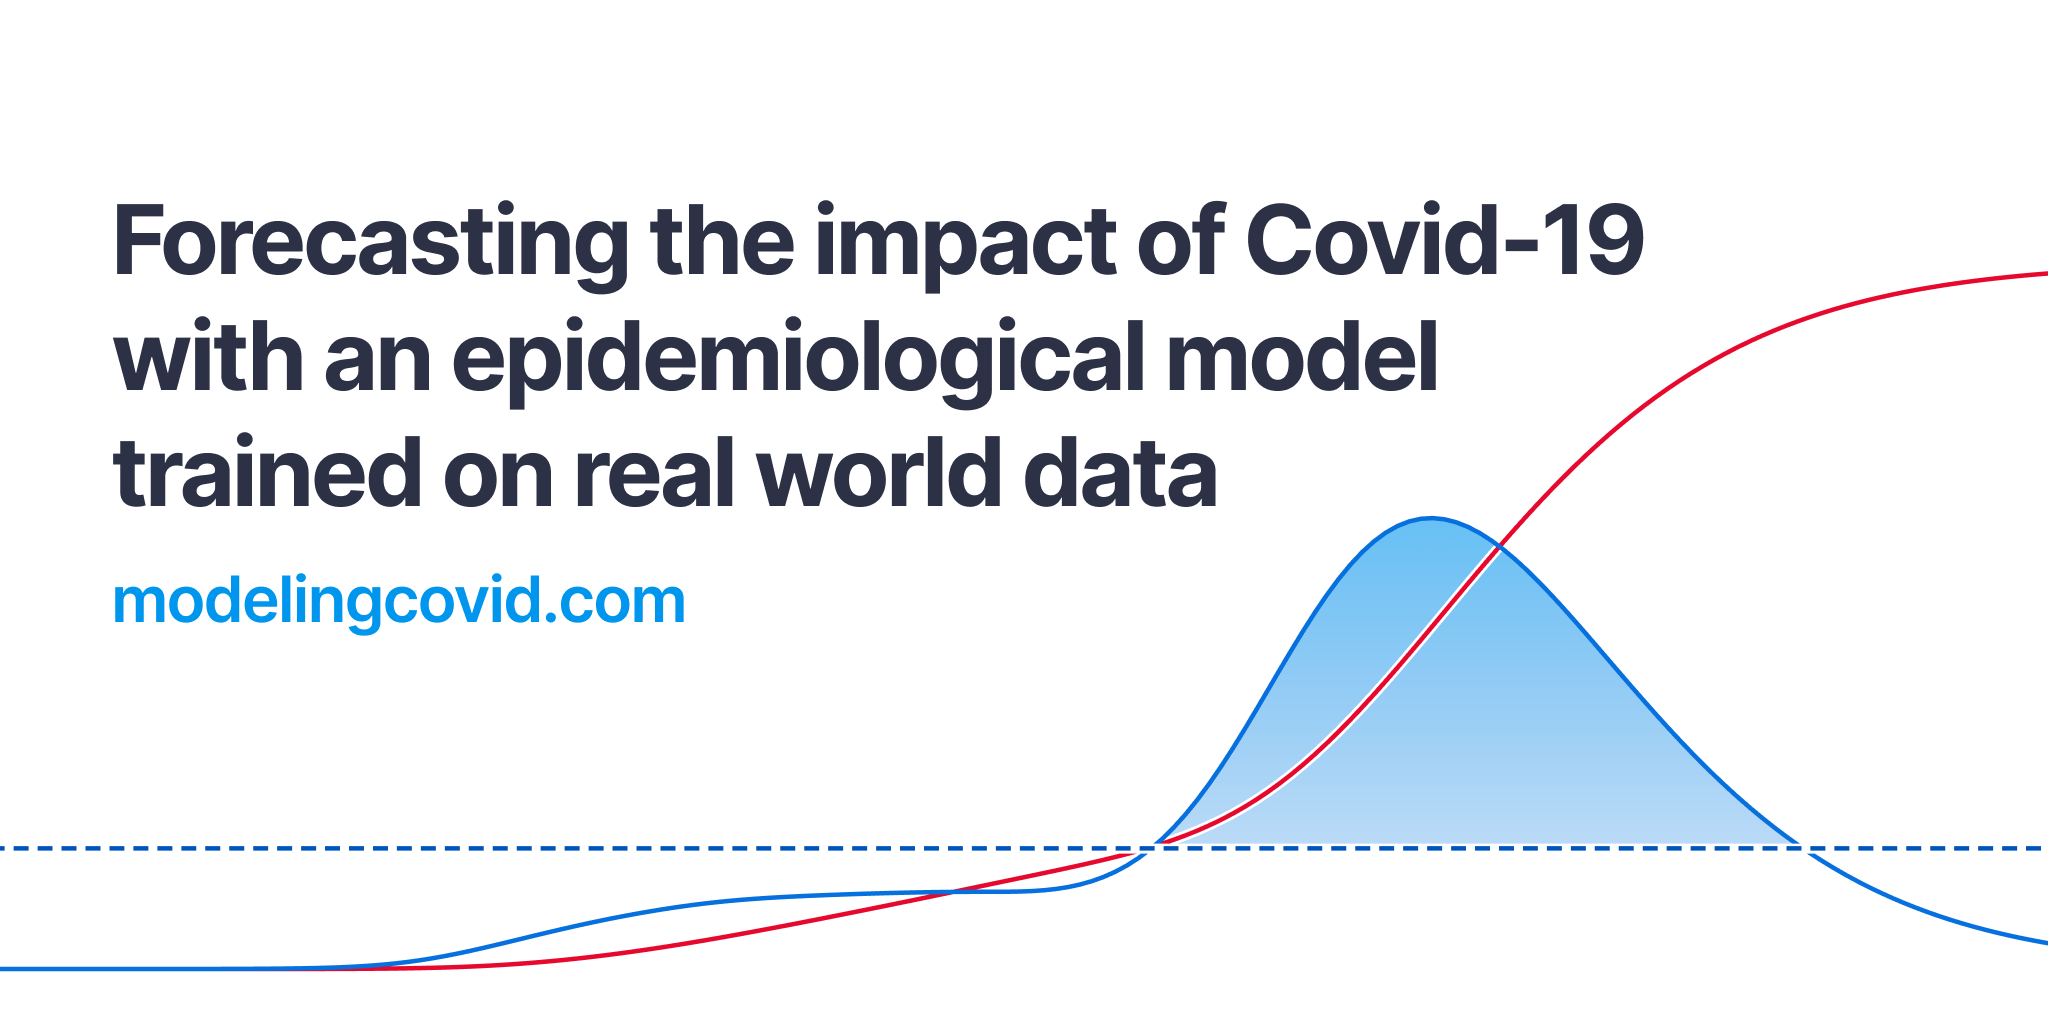
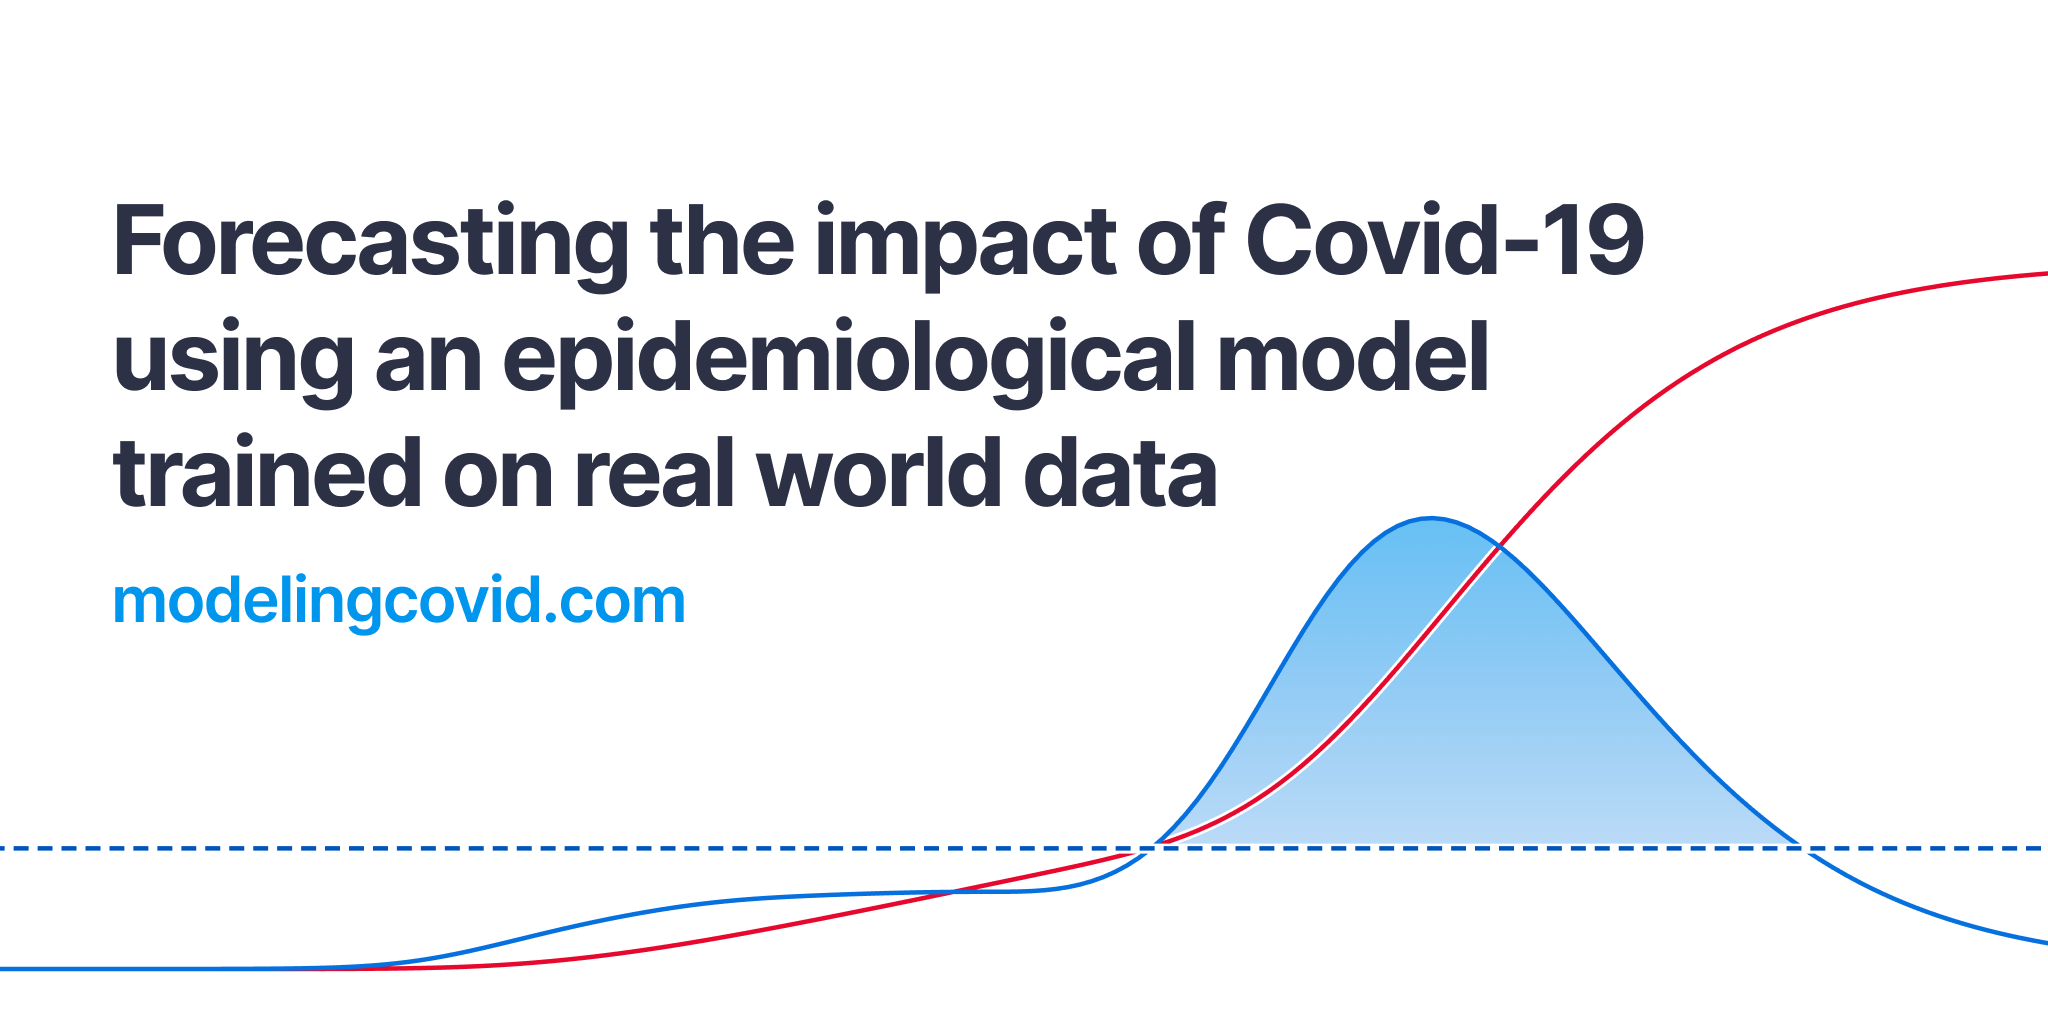
Consolidate and update tagline

Changed region(s): [[0.0625, 0.3125, 0.75, 0.4062]]

diff --git a/pages/state/[state].js b/pages/state/[state].js
@@ -104,8 +104,8 @@ export default function StatePage() {
               <span className="nowrap">in {stateName}</span>
             </h1>
             <h2 className="dek margin-bottom-3">
-              Forecasting the impact of the virus using models trained with
-              actual social distancing, testing, and fatality data
+              Forecasting the impact of Covid-19 using an epidemiological model
+              trained on real world data
             </h2>
           </Section>
           <div className="controls-container">

diff --git a/pages/_app.js b/pages/_app.js
@@ -15,7 +15,7 @@ const {useState} = React;
 const title = 'Modeling Covid-19';
 const browserTitle = title;
 const description =
-  'Forecasting the impact of Covid-19 using models trained with actual social distancing, testing, and fatality data.';
+  'Forecasting the impact of Covid-19 using an epidemiological model trained on real world data.';
 const canonicalUrl = 'https://modelingcovid.com/';
 const socialImgUrl = `${canonicalUrl}social.png`;
 

diff --git a/md/home.md b/md/home.md
@@ -1,1 +1,1 @@
-# Forecasting the impact of Covid-19 with an epidemiological model trained on real world data
+# Forecasting the impact of Covid-19 using an epidemiological model trained on real world data
